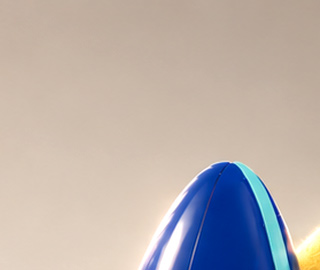
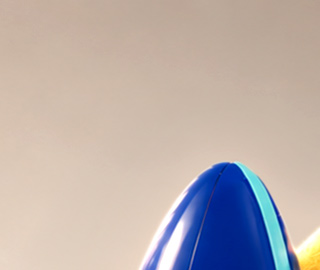
feat(section2): 6 square slices 3D blur assembly from user slice assets

diff --git a/core/templates/landing.html b/core/templates/landing.html
@@ -6619,39 +6619,38 @@ if (document.readyState === 'loading') {
     var COLS = 3;
     var ROWS = 2;
 
-    // --- 6-Cube Cinematic Spatial Displacement Vectors ---
-    // Wide, prominent 3D dispersal so cubes clearly float independently in space with noticeable spacing
-    // Desktop: 3 cols x 2 rows = 6 large square cube tiles
-    // [col, row, driftX, driftY, driftZ, rotateX, rotateY, rotateZ]
+    // --- 6-Square Cinematic Spatial Displacement Vectors ---
+    // Wide, prominent 3D dispersal so 6 square slices clearly float independently in space with noticeable depth
+    // Desktop: 3 cols x 2 rows = 6 squares
     var CUBE_DEFS_DESKTOP = [
       // Top-Left: floats far up & left, deep 3D perspective tilt
-      { c: 0, r: 0, dx: -460, dy: -300, dz: -280, rx:  16, ry: -20, rz: -16 },
+      { c: 0, r: 0, src: '/static/slices/cubes/cube_01.jpg', dx: -460, dy: -300, dz: -280, rx:  16, ry: -20, rz: -16 },
       // Top-Center: floats high above center with subtle pitch
-      { c: 1, r: 0, dx:   40, dy: -380, dz: -220, rx: -18, ry:  10, rz:  10 },
+      { c: 1, r: 0, src: '/static/slices/cubes/cube_02.jpg', dx:   40, dy: -380, dz: -220, rx: -18, ry:  10, rz:  10 },
       // Top-Right: floats far up & right with clockwise tilt
-      { c: 2, r: 0, dx:  460, dy: -290, dz: -290, rx:  14, ry:  20, rz:  18 },
+      { c: 2, r: 0, src: '/static/slices/cubes/cube_03.jpg', dx:  460, dy: -290, dz: -290, rx:  14, ry:  20, rz:  18 },
       // Bottom-Left: sweeps far down & left with counter-clockwise tilt
-      { c: 0, r: 1, dx: -440, dy:  310, dz: -260, rx: -14, ry: -18, rz:  14 },
+      { c: 0, r: 1, src: '/static/slices/cubes/cube_04.jpg', dx: -440, dy:  310, dz: -260, rx: -14, ry: -18, rz:  14 },
       // Bottom-Center: floats deep beneath center
-      { c: 1, r: 1, dx:  -35, dy:  380, dz: -240, rx:  18, ry: -10, rz:  -8 },
+      { c: 1, r: 1, src: '/static/slices/cubes/cube_05.jpg', dx:  -35, dy:  380, dz: -240, rx:  18, ry: -10, rz:  -8 },
       // Bottom-Right: sweeps far down & right
-      { c: 2, r: 1, dx:  450, dy:  300, dz: -280, rx: -16, ry:  18, rz: -16 }
+      { c: 2, r: 1, src: '/static/slices/cubes/cube_06.jpg', dx:  450, dy:  300, dz: -280, rx: -16, ry:  18, rz: -16 }
     ];
 
-    // Mobile: 2 cols x 3 rows = 6 large square cube tiles for vertical 9:16 screen
+    // Mobile: 2 cols x 3 rows = 6 squares for vertical 9:16 screen
     var CUBE_DEFS_MOBILE = [
       // Top-Left
-      { c: 0, r: 0, dx: -220, dy: -230, dz: -200, rx:  14, ry: -16, rz: -12 },
+      { c: 0, r: 0, src: '/static/slices/cubes/cube_v01.jpg', dx: -220, dy: -230, dz: -200, rx:  14, ry: -16, rz: -12 },
       // Top-Right
-      { c: 1, r: 0, dx:  220, dy: -220, dz: -210, rx:  14, ry:  16, rz:  14 },
+      { c: 1, r: 0, src: '/static/slices/cubes/cube_v02.jpg', dx:  220, dy: -220, dz: -210, rx:  14, ry:  16, rz:  14 },
       // Mid-Left
-      { c: 0, r: 1, dx: -260, dy:   15, dz: -230, rx: -12, ry: -18, rz:  10 },
+      { c: 0, r: 1, src: '/static/slices/cubes/cube_v03.jpg', dx: -260, dy:   15, dz: -230, rx: -12, ry: -18, rz:  10 },
       // Mid-Right
-      { c: 1, r: 1, dx:  260, dy:  -15, dz: -220, rx:  12, ry:  18, rz: -10 },
+      { c: 1, r: 1, src: '/static/slices/cubes/cube_v04.jpg', dx:  260, dy:  -15, dz: -220, rx:  12, ry:  18, rz: -10 },
       // Bottom-Left
-      { c: 0, r: 2, dx: -210, dy:  240, dz: -200, rx: -14, ry: -14, rz: -12 },
+      { c: 0, r: 2, src: '/static/slices/cubes/cube_v05.jpg', dx: -210, dy:  240, dz: -200, rx: -14, ry: -14, rz: -12 },
       // Bottom-Right
-      { c: 1, r: 2, dx:  210, dy:  250, dz: -210, rx: -14, ry:  16, rz:  12 }
+      { c: 1, r: 2, src: '/static/slices/cubes/cube_v06.jpg', dx:  210, dy:  250, dz: -210, rx: -14, ry:  16, rz:  12 }
     ];
 
     var activeDefs = CUBE_DEFS_DESKTOP;
@@ -6690,7 +6689,7 @@ if (document.readyState === 'loading') {
         try { video.load(); } catch(_) {}
       }
 
-      // Build exactly 6 cubes with subpixel 1.5px overlap to guarantee zero seams
+      // Build exactly 6 squares with subpixel 1.5px overlap to guarantee zero seams
       slicesCont.innerHTML = '';
       slicesCont.style.overflow = 'visible';
       var frag = document.createDocumentFragment();
@@ -6699,7 +6698,7 @@ if (document.readyState === 'loading') {
         var def = activeDefs[i];
         var c = def.c, r = def.r;
         var cube = document.createElement('div');
-        cube.className = 'spec-slice';
+        cube.className = 'spec-slice spec-cube';
         cube.setAttribute('data-col', c);
         cube.setAttribute('data-row', r);
         cube.setAttribute('data-idx', i);
@@ -6724,17 +6723,12 @@ if (document.readyState === 'loading') {
         ].join(';');
 
         var img = document.createElement('img');
-        img.src = imgSrc;
-        img.alt = 'spec-cube-' + i;
+        img.src = def.src;
+        img.alt = 'spec-slice-' + (i + 1);
         img.style.cssText = [
-          'position:absolute',
-          'left:' + (-c * 100).toFixed(4) + '%',
-          'top:' + (-r * 100).toFixed(4) + '%',
-          'width:' + (COLS * 100).toFixed(4) + '%',
-          'height:' + (ROWS * 100).toFixed(4) + '%',
-          'object-fit:fill',
-          'max-width:none',
-          'max-height:none',
+          'width:100%',
+          'height:100%',
+          'object-fit:cover',
           'display:block',
           'pointer-events:none'
         ].join(';');
@@ -6894,10 +6888,10 @@ if (document.readyState === 'loading') {
           var def = activeDefs[i] || activeDefs[0];
 
           // Staggered individual slice progression
-          var st = i * 0.022; // individual staggered delay
-          var dur = assembleEnd - st;
+          var st = i * 0.02;
+          var dur = assembleEnd - 0.06;
           var p_i = Math.max(0, Math.min(1, (p - st) / Math.max(0.12, dur)));
-          var ease_i = 1 - Math.pow(1 - p_i, 1.6);
+          var ease_i = 1 - Math.pow(1 - p_i, 1.8);
           var dist_i = 1 - ease_i;
 
           var driftX = (def.dx * dist_i).toFixed(1);
@@ -6915,16 +6909,14 @@ if (document.readyState === 'loading') {
           var spreadPx = Math.round(40 * dist_i);
           var br = Math.round(8 * dist_i);
 
-          // Slices appear individually as Section 2 enters
-          var sliceAlpha = Math.min(1, Math.max(0, (p - (st * 0.4)) / 0.05 + 0.20));
-
-          slice.style.opacity = sliceAlpha.toFixed(3);
+          // Slices are fully visible from the start so user clearly sees them dispersed and collecting
+          slice.style.opacity = '1';
           slice.style.transform = 'translate3d(' + driftX + 'px,' + driftY + 'px,' + driftZ + 'px)' +
             ' rotateX(' + rx + 'deg) rotateY(' + ry + 'deg) rotateZ(' + rz + 'deg)' +
             ' scale(' + scale + ')';
           slice.style.filter = parseFloat(blurPx) > 0.15 ? 'blur(' + blurPx + 'px)' : 'none';
           slice.style.boxShadow = dist_i > 0.04
-            ? '0 10px ' + spreadPx + 'px rgba(0,0,0,' + shadowAlpha + ')'
+            ? '0 12px ' + spreadPx + 'px rgba(0,0,0,' + shadowAlpha + ')'
             : 'none';
           slice.style.borderRadius = br > 0 ? br + 'px' : '0';
         });

diff --git a/index.html b/index.html
@@ -6761,39 +6761,38 @@ if (document.readyState === 'loading') {
     var COLS = 3;
     var ROWS = 2;
 
-    // --- 6-Cube Cinematic Spatial Displacement Vectors ---
-    // Wide, prominent 3D dispersal so cubes clearly float independently in space with noticeable spacing
-    // Desktop: 3 cols x 2 rows = 6 large square cube tiles
-    // [col, row, driftX, driftY, driftZ, rotateX, rotateY, rotateZ]
+    // --- 6-Square Cinematic Spatial Displacement Vectors ---
+    // Wide, prominent 3D dispersal so 6 square slices clearly float independently in space with noticeable depth
+    // Desktop: 3 cols x 2 rows = 6 squares
     var CUBE_DEFS_DESKTOP = [
       // Top-Left: floats far up & left, deep 3D perspective tilt
-      { c: 0, r: 0, dx: -460, dy: -300, dz: -280, rx:  16, ry: -20, rz: -16 },
+      { c: 0, r: 0, src: '/static/slices/cubes/cube_01.jpg', dx: -460, dy: -300, dz: -280, rx:  16, ry: -20, rz: -16 },
       // Top-Center: floats high above center with subtle pitch
-      { c: 1, r: 0, dx:   40, dy: -380, dz: -220, rx: -18, ry:  10, rz:  10 },
+      { c: 1, r: 0, src: '/static/slices/cubes/cube_02.jpg', dx:   40, dy: -380, dz: -220, rx: -18, ry:  10, rz:  10 },
       // Top-Right: floats far up & right with clockwise tilt
-      { c: 2, r: 0, dx:  460, dy: -290, dz: -290, rx:  14, ry:  20, rz:  18 },
+      { c: 2, r: 0, src: '/static/slices/cubes/cube_03.jpg', dx:  460, dy: -290, dz: -290, rx:  14, ry:  20, rz:  18 },
       // Bottom-Left: sweeps far down & left with counter-clockwise tilt
-      { c: 0, r: 1, dx: -440, dy:  310, dz: -260, rx: -14, ry: -18, rz:  14 },
+      { c: 0, r: 1, src: '/static/slices/cubes/cube_04.jpg', dx: -440, dy:  310, dz: -260, rx: -14, ry: -18, rz:  14 },
       // Bottom-Center: floats deep beneath center
-      { c: 1, r: 1, dx:  -35, dy:  380, dz: -240, rx:  18, ry: -10, rz:  -8 },
+      { c: 1, r: 1, src: '/static/slices/cubes/cube_05.jpg', dx:  -35, dy:  380, dz: -240, rx:  18, ry: -10, rz:  -8 },
       // Bottom-Right: sweeps far down & right
-      { c: 2, r: 1, dx:  450, dy:  300, dz: -280, rx: -16, ry:  18, rz: -16 }
+      { c: 2, r: 1, src: '/static/slices/cubes/cube_06.jpg', dx:  450, dy:  300, dz: -280, rx: -16, ry:  18, rz: -16 }
     ];
 
-    // Mobile: 2 cols x 3 rows = 6 large square cube tiles for vertical 9:16 screen
+    // Mobile: 2 cols x 3 rows = 6 squares for vertical 9:16 screen
     var CUBE_DEFS_MOBILE = [
       // Top-Left
-      { c: 0, r: 0, dx: -220, dy: -230, dz: -200, rx:  14, ry: -16, rz: -12 },
+      { c: 0, r: 0, src: '/static/slices/cubes/cube_v01.jpg', dx: -220, dy: -230, dz: -200, rx:  14, ry: -16, rz: -12 },
       // Top-Right
-      { c: 1, r: 0, dx:  220, dy: -220, dz: -210, rx:  14, ry:  16, rz:  14 },
+      { c: 1, r: 0, src: '/static/slices/cubes/cube_v02.jpg', dx:  220, dy: -220, dz: -210, rx:  14, ry:  16, rz:  14 },
       // Mid-Left
-      { c: 0, r: 1, dx: -260, dy:   15, dz: -230, rx: -12, ry: -18, rz:  10 },
+      { c: 0, r: 1, src: '/static/slices/cubes/cube_v03.jpg', dx: -260, dy:   15, dz: -230, rx: -12, ry: -18, rz:  10 },
       // Mid-Right
-      { c: 1, r: 1, dx:  260, dy:  -15, dz: -220, rx:  12, ry:  18, rz: -10 },
+      { c: 1, r: 1, src: '/static/slices/cubes/cube_v04.jpg', dx:  260, dy:  -15, dz: -220, rx:  12, ry:  18, rz: -10 },
       // Bottom-Left
-      { c: 0, r: 2, dx: -210, dy:  240, dz: -200, rx: -14, ry: -14, rz: -12 },
+      { c: 0, r: 2, src: '/static/slices/cubes/cube_v05.jpg', dx: -210, dy:  240, dz: -200, rx: -14, ry: -14, rz: -12 },
       // Bottom-Right
-      { c: 1, r: 2, dx:  210, dy:  250, dz: -210, rx: -14, ry:  16, rz:  12 }
+      { c: 1, r: 2, src: '/static/slices/cubes/cube_v06.jpg', dx:  210, dy:  250, dz: -210, rx: -14, ry:  16, rz:  12 }
     ];
 
     var activeDefs = CUBE_DEFS_DESKTOP;
@@ -6832,7 +6831,7 @@ if (document.readyState === 'loading') {
         try { video.load(); } catch(_) {}
       }
 
-      // Build exactly 6 cubes with subpixel 1.5px overlap to guarantee zero seams
+      // Build exactly 6 squares with subpixel 1.5px overlap to guarantee zero seams
       slicesCont.innerHTML = '';
       slicesCont.style.overflow = 'visible';
       var frag = document.createDocumentFragment();
@@ -6841,7 +6840,7 @@ if (document.readyState === 'loading') {
         var def = activeDefs[i];
         var c = def.c, r = def.r;
         var cube = document.createElement('div');
-        cube.className = 'spec-slice';
+        cube.className = 'spec-slice spec-cube';
         cube.setAttribute('data-col', c);
         cube.setAttribute('data-row', r);
         cube.setAttribute('data-idx', i);
@@ -6866,17 +6865,12 @@ if (document.readyState === 'loading') {
         ].join(';');
 
         var img = document.createElement('img');
-        img.src = imgSrc;
-        img.alt = 'spec-cube-' + i;
+        img.src = def.src;
+        img.alt = 'spec-slice-' + (i + 1);
         img.style.cssText = [
-          'position:absolute',
-          'left:' + (-c * 100).toFixed(4) + '%',
-          'top:' + (-r * 100).toFixed(4) + '%',
-          'width:' + (COLS * 100).toFixed(4) + '%',
-          'height:' + (ROWS * 100).toFixed(4) + '%',
-          'object-fit:fill',
-          'max-width:none',
-          'max-height:none',
+          'width:100%',
+          'height:100%',
+          'object-fit:cover',
           'display:block',
           'pointer-events:none'
         ].join(';');
@@ -7036,10 +7030,10 @@ if (document.readyState === 'loading') {
           var def = activeDefs[i] || activeDefs[0];
 
           // Staggered individual slice progression
-          var st = i * 0.022; // individual staggered delay
-          var dur = assembleEnd - st;
+          var st = i * 0.02;
+          var dur = assembleEnd - 0.06;
           var p_i = Math.max(0, Math.min(1, (p - st) / Math.max(0.12, dur)));
-          var ease_i = 1 - Math.pow(1 - p_i, 1.6);
+          var ease_i = 1 - Math.pow(1 - p_i, 1.8);
           var dist_i = 1 - ease_i;
 
           var driftX = (def.dx * dist_i).toFixed(1);
@@ -7057,16 +7051,14 @@ if (document.readyState === 'loading') {
           var spreadPx = Math.round(40 * dist_i);
           var br = Math.round(8 * dist_i);
 
-          // Slices appear individually as Section 2 enters
-          var sliceAlpha = Math.min(1, Math.max(0, (p - (st * 0.4)) / 0.05 + 0.20));
-
-          slice.style.opacity = sliceAlpha.toFixed(3);
+          // Slices are fully visible from the start so user clearly sees them dispersed and collecting
+          slice.style.opacity = '1';
           slice.style.transform = 'translate3d(' + driftX + 'px,' + driftY + 'px,' + driftZ + 'px)' +
             ' rotateX(' + rx + 'deg) rotateY(' + ry + 'deg) rotateZ(' + rz + 'deg)' +
             ' scale(' + scale + ')';
           slice.style.filter = parseFloat(blurPx) > 0.15 ? 'blur(' + blurPx + 'px)' : 'none';
           slice.style.boxShadow = dist_i > 0.04
-            ? '0 10px ' + spreadPx + 'px rgba(0,0,0,' + shadowAlpha + ')'
+            ? '0 12px ' + spreadPx + 'px rgba(0,0,0,' + shadowAlpha + ')'
             : 'none';
           slice.style.borderRadius = br > 0 ? br + 'px' : '0';
         });
